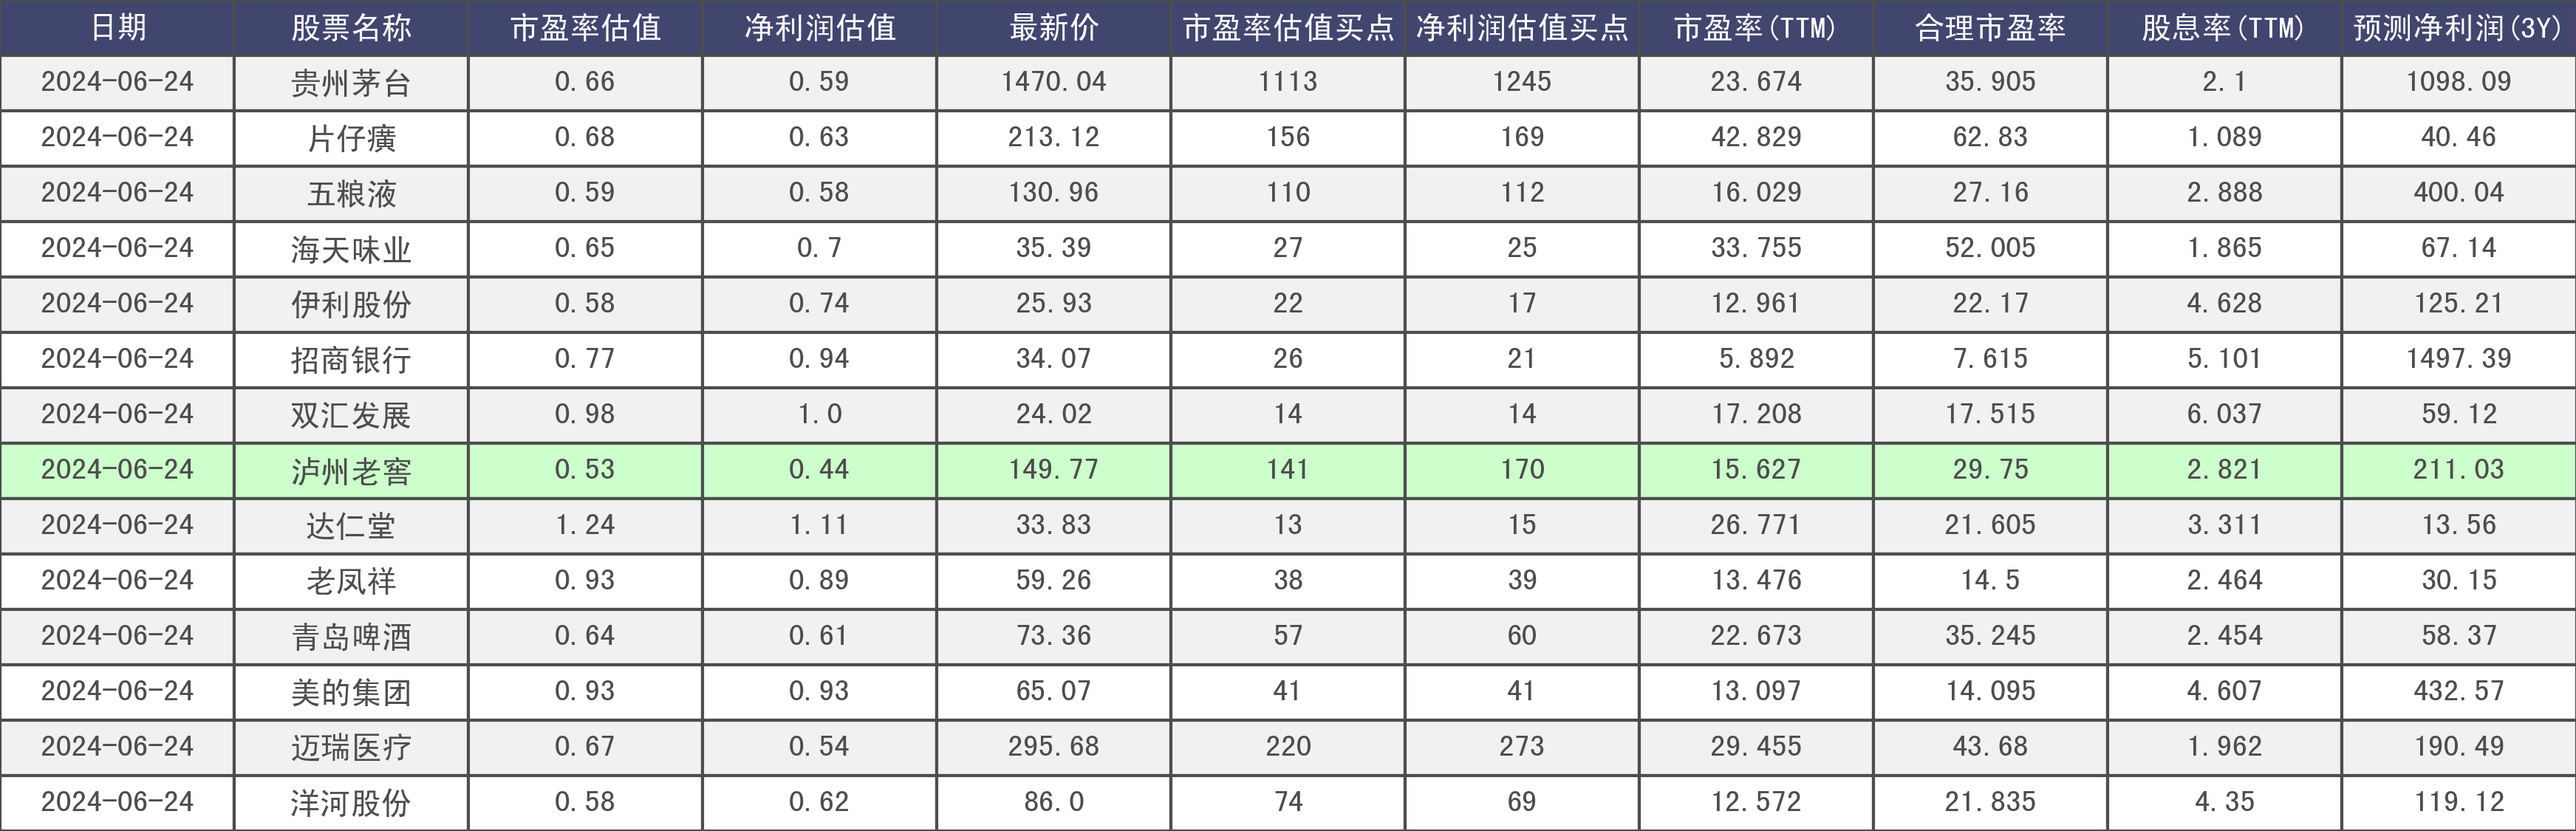
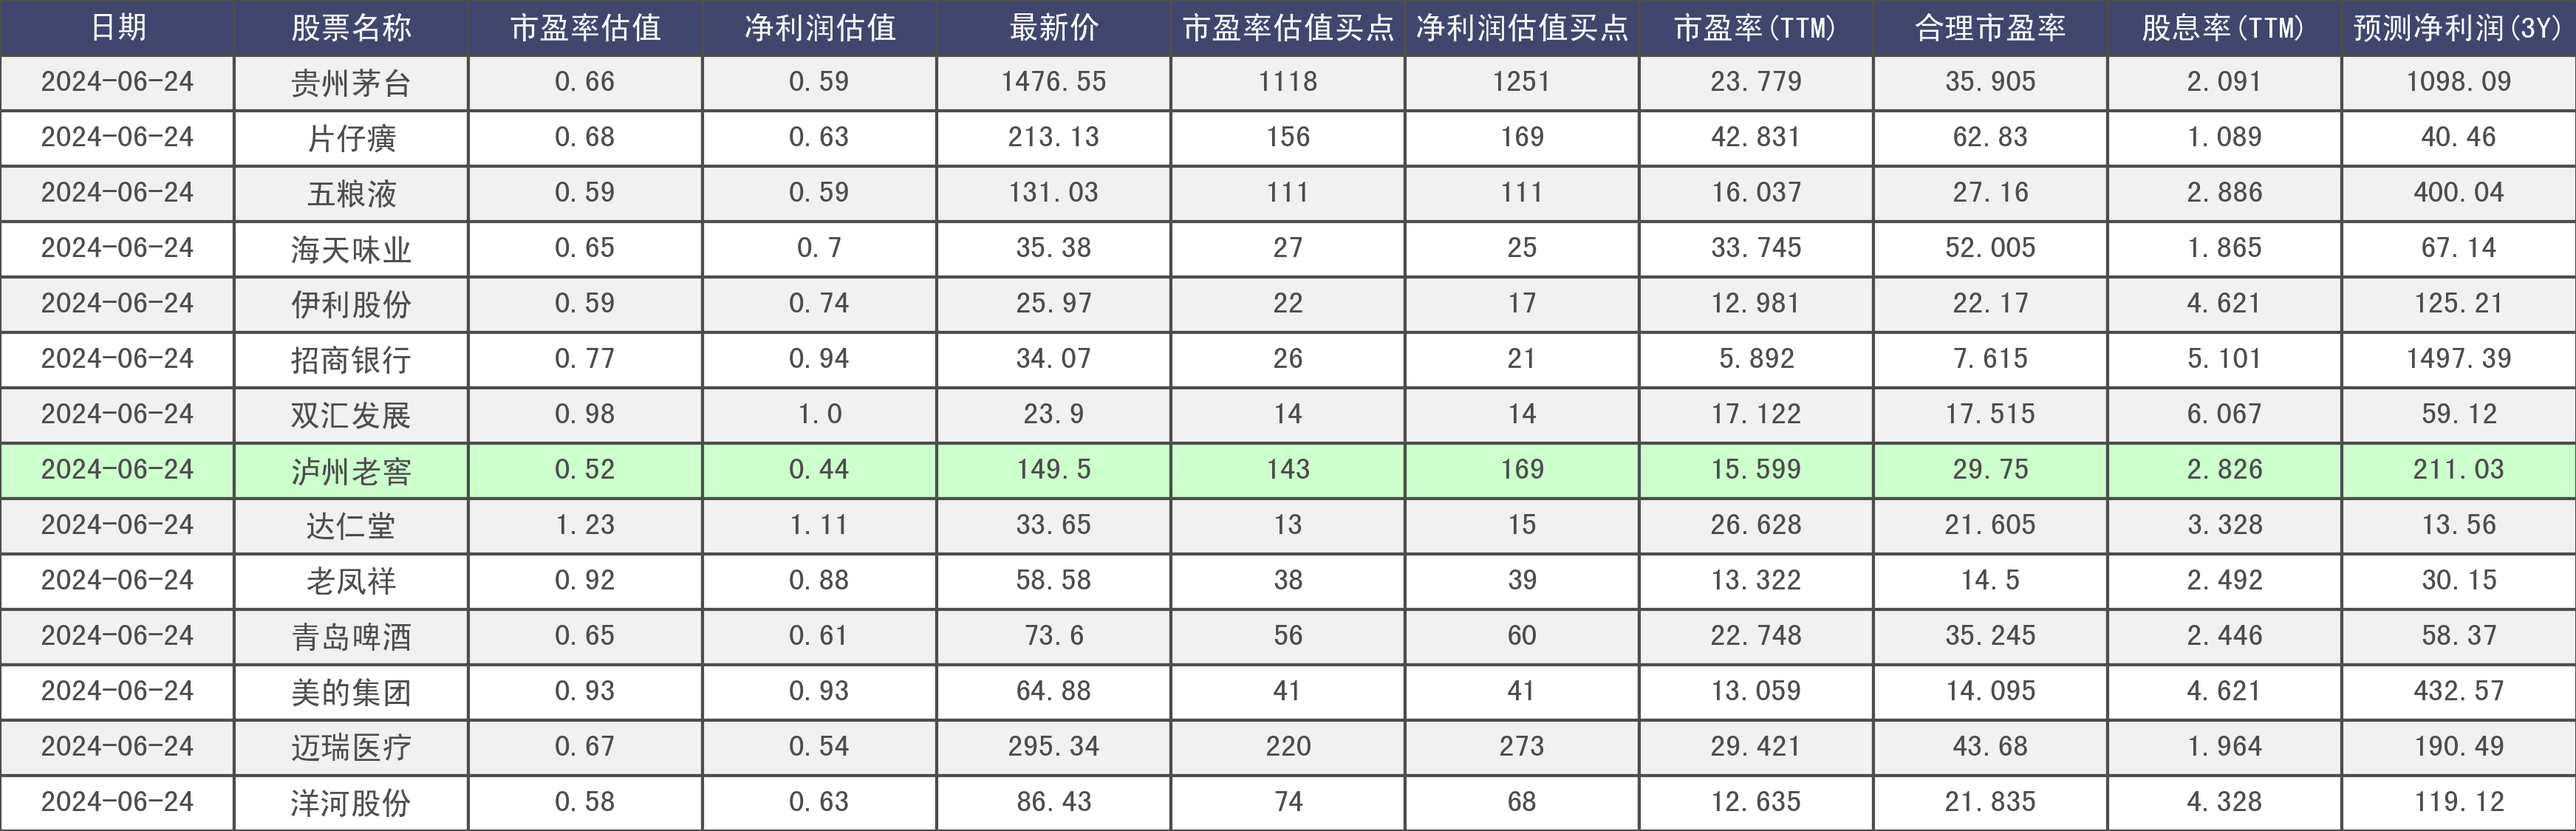
action:2024-06-24T15:07:52

diff --git a/index.html b/index.html
@@ -29,12 +29,12 @@
       <td>贵州茅台</td>
       <td>0.66</td>
       <td>0.59</td>
-      <td>1470.04</td>
-      <td>1113</td>
-      <td>1245</td>
-      <td>23.674</td>
+      <td>1476.55</td>
+      <td>1118</td>
+      <td>1251</td>
+      <td>23.779</td>
       <td>35.905</td>
-      <td>2.100</td>
+      <td>2.091</td>
       <td>1098.09</td>
     </tr>
     <tr>
@@ -42,10 +42,10 @@
       <td>片仔癀</td>
       <td>0.68</td>
       <td>0.63</td>
-      <td>213.12</td>
+      <td>213.13</td>
       <td>156</td>
       <td>169</td>
-      <td>42.829</td>
+      <td>42.831</td>
       <td>62.830</td>
       <td>1.089</td>
       <td>40.46</td>
@@ -54,13 +54,13 @@
       <td>2024-06-24</td>
       <td>五粮液</td>
       <td>0.59</td>
-      <td>0.58</td>
-      <td>130.96</td>
-      <td>110</td>
-      <td>112</td>
-      <td>16.029</td>
+      <td>0.59</td>
+      <td>131.03</td>
+      <td>111</td>
+      <td>111</td>
+      <td>16.037</td>
       <td>27.160</td>
-      <td>2.888</td>
+      <td>2.886</td>
       <td>400.04</td>
     </tr>
     <tr>
@@ -68,10 +68,10 @@
       <td>海天味业</td>
       <td>0.65</td>
       <td>0.70</td>
-      <td>35.39</td>
+      <td>35.38</td>
       <td>27</td>
       <td>25</td>
-      <td>33.755</td>
+      <td>33.745</td>
       <td>52.005</td>
       <td>1.865</td>
       <td>67.14</td>
@@ -79,14 +79,14 @@
     <tr>
       <td>2024-06-24</td>
       <td>伊利股份</td>
-      <td>0.58</td>
+      <td>0.59</td>
       <td>0.74</td>
-      <td>25.93</td>
+      <td>25.97</td>
       <td>22</td>
       <td>17</td>
-      <td>12.961</td>
+      <td>12.981</td>
       <td>22.170</td>
-      <td>4.628</td>
+      <td>4.621</td>
       <td>125.21</td>
     </tr>
     <tr>
@@ -107,64 +107,64 @@
       <td>双汇发展</td>
       <td>0.98</td>
       <td>1.00</td>
-      <td>24.02</td>
+      <td>23.90</td>
       <td>14</td>
       <td>14</td>
-      <td>17.208</td>
+      <td>17.122</td>
       <td>17.515</td>
-      <td>6.037</td>
+      <td>6.067</td>
       <td>59.12</td>
     </tr>
     <tr>
       <td>2024-06-24</td>
       <td>泸州老窖</td>
-      <td>0.53</td>
+      <td>0.52</td>
       <td>0.44</td>
-      <td>149.77</td>
-      <td>141</td>
-      <td>170</td>
-      <td>15.627</td>
+      <td>149.50</td>
+      <td>143</td>
+      <td>169</td>
+      <td>15.599</td>
       <td>29.750</td>
-      <td>2.821</td>
+      <td>2.826</td>
       <td>211.03</td>
     </tr>
     <tr>
       <td>2024-06-24</td>
       <td>达仁堂</td>
-      <td>1.24</td>
+      <td>1.23</td>
       <td>1.11</td>
-      <td>33.83</td>
+      <td>33.65</td>
       <td>13</td>
       <td>15</td>
-      <td>26.771</td>
+      <td>26.628</td>
       <td>21.605</td>
-      <td>3.311</td>
+      <td>3.328</td>
       <td>13.56</td>
     </tr>
     <tr>
       <td>2024-06-24</td>
       <td>老凤祥</td>
-      <td>0.93</td>
-      <td>0.89</td>
-      <td>59.26</td>
+      <td>0.92</td>
+      <td>0.88</td>
+      <td>58.58</td>
       <td>38</td>
       <td>39</td>
-      <td>13.476</td>
+      <td>13.322</td>
       <td>14.500</td>
-      <td>2.464</td>
+      <td>2.492</td>
       <td>30.15</td>
     </tr>
     <tr>
       <td>2024-06-24</td>
       <td>青岛啤酒</td>
-      <td>0.64</td>
+      <td>0.65</td>
       <td>0.61</td>
-      <td>73.36</td>
-      <td>57</td>
+      <td>73.60</td>
+      <td>56</td>
       <td>60</td>
-      <td>22.673</td>
+      <td>22.748</td>
       <td>35.245</td>
-      <td>2.454</td>
+      <td>2.446</td>
       <td>58.37</td>
     </tr>
     <tr>
@@ -172,12 +172,12 @@
       <td>美的集团</td>
       <td>0.93</td>
       <td>0.93</td>
-      <td>65.07</td>
+      <td>64.88</td>
       <td>41</td>
       <td>41</td>
-      <td>13.097</td>
+      <td>13.059</td>
       <td>14.095</td>
-      <td>4.607</td>
+      <td>4.621</td>
       <td>432.57</td>
     </tr>
     <tr>
@@ -185,25 +185,25 @@
       <td>迈瑞医疗</td>
       <td>0.67</td>
       <td>0.54</td>
-      <td>295.68</td>
+      <td>295.34</td>
       <td>220</td>
       <td>273</td>
-      <td>29.455</td>
+      <td>29.421</td>
       <td>43.680</td>
-      <td>1.962</td>
+      <td>1.964</td>
       <td>190.49</td>
     </tr>
     <tr>
       <td>2024-06-24</td>
       <td>洋河股份</td>
       <td>0.58</td>
-      <td>0.62</td>
-      <td>86.00</td>
+      <td>0.63</td>
+      <td>86.43</td>
       <td>74</td>
-      <td>69</td>
-      <td>12.572</td>
+      <td>68</td>
+      <td>12.635</td>
       <td>21.835</td>
-      <td>4.350</td>
+      <td>4.328</td>
       <td>119.12</td>
     </tr>
   </tbody>
